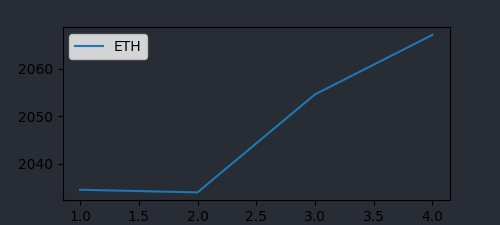
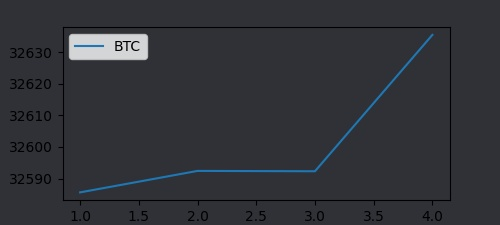
colors

diff --git a/app.py b/app.py
@@ -100,8 +100,8 @@ async def on_message(message):
                 fig, ax = plt.subplots()
                 fig.set_size_inches(5, 2.25, 0)
                 plt.legend(facecolor="white", edgecolor="yellow")
-                ax.set_facecolor("#282C34")
-                fig.set_facecolor("#282C34")
+                ax.set_facecolor("#2F3136")
+                fig.set_facecolor("#2F3136")
                 leg = plt.legend()
                 for line, text in leg.get_texts():
                     text.set_color('white')
